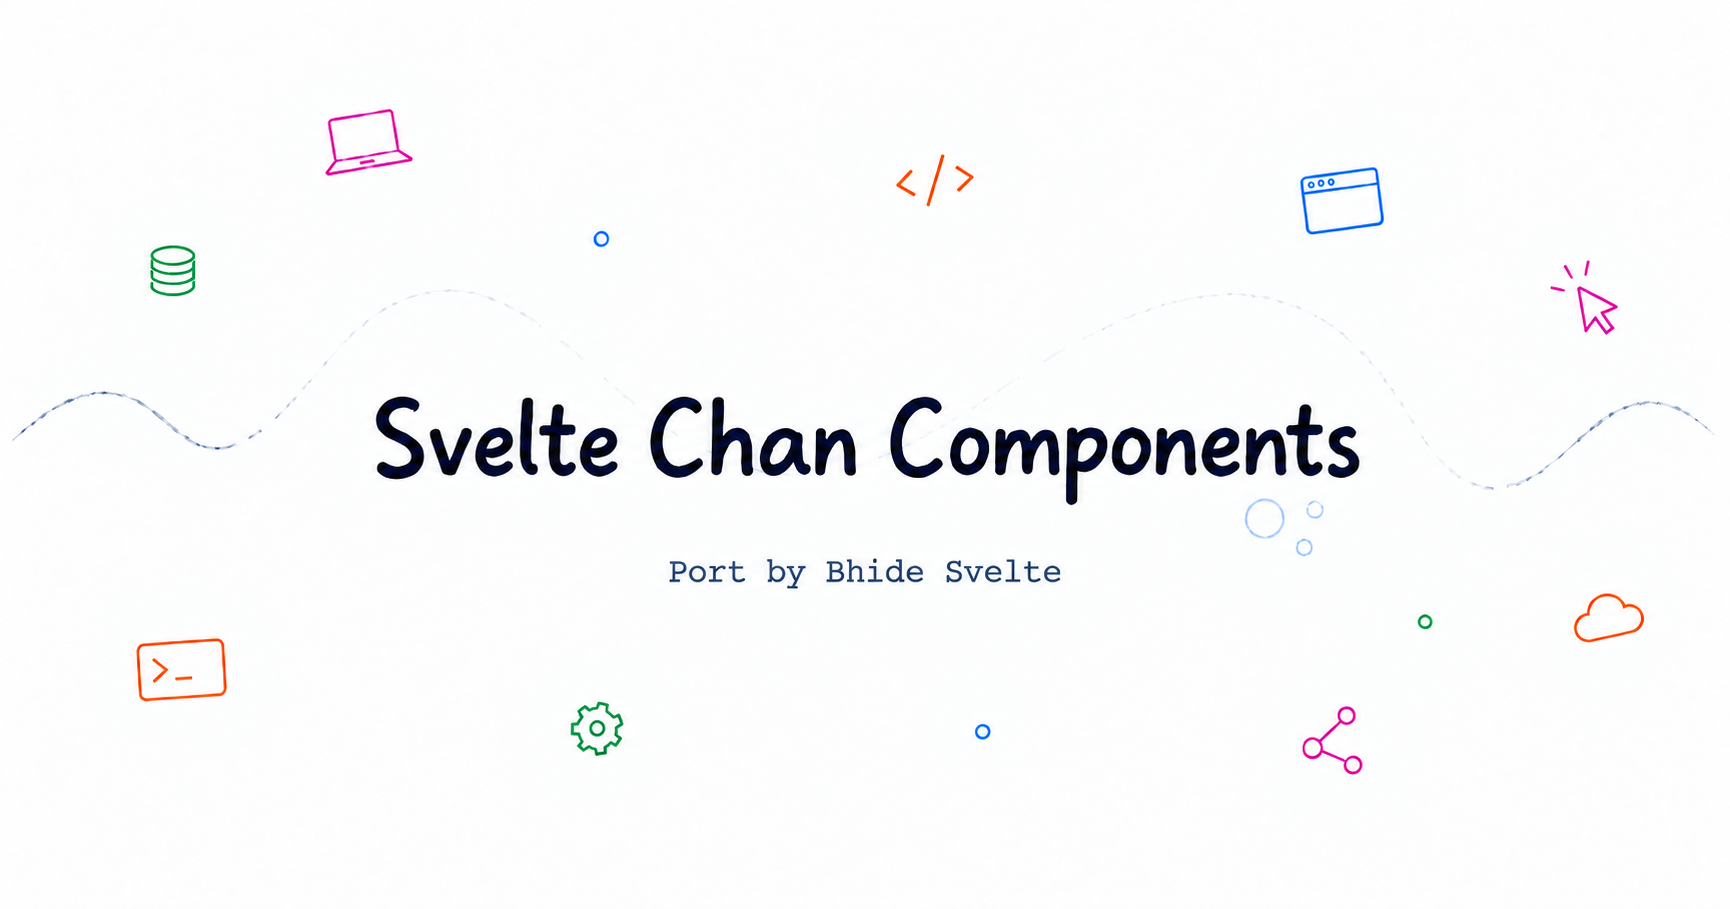
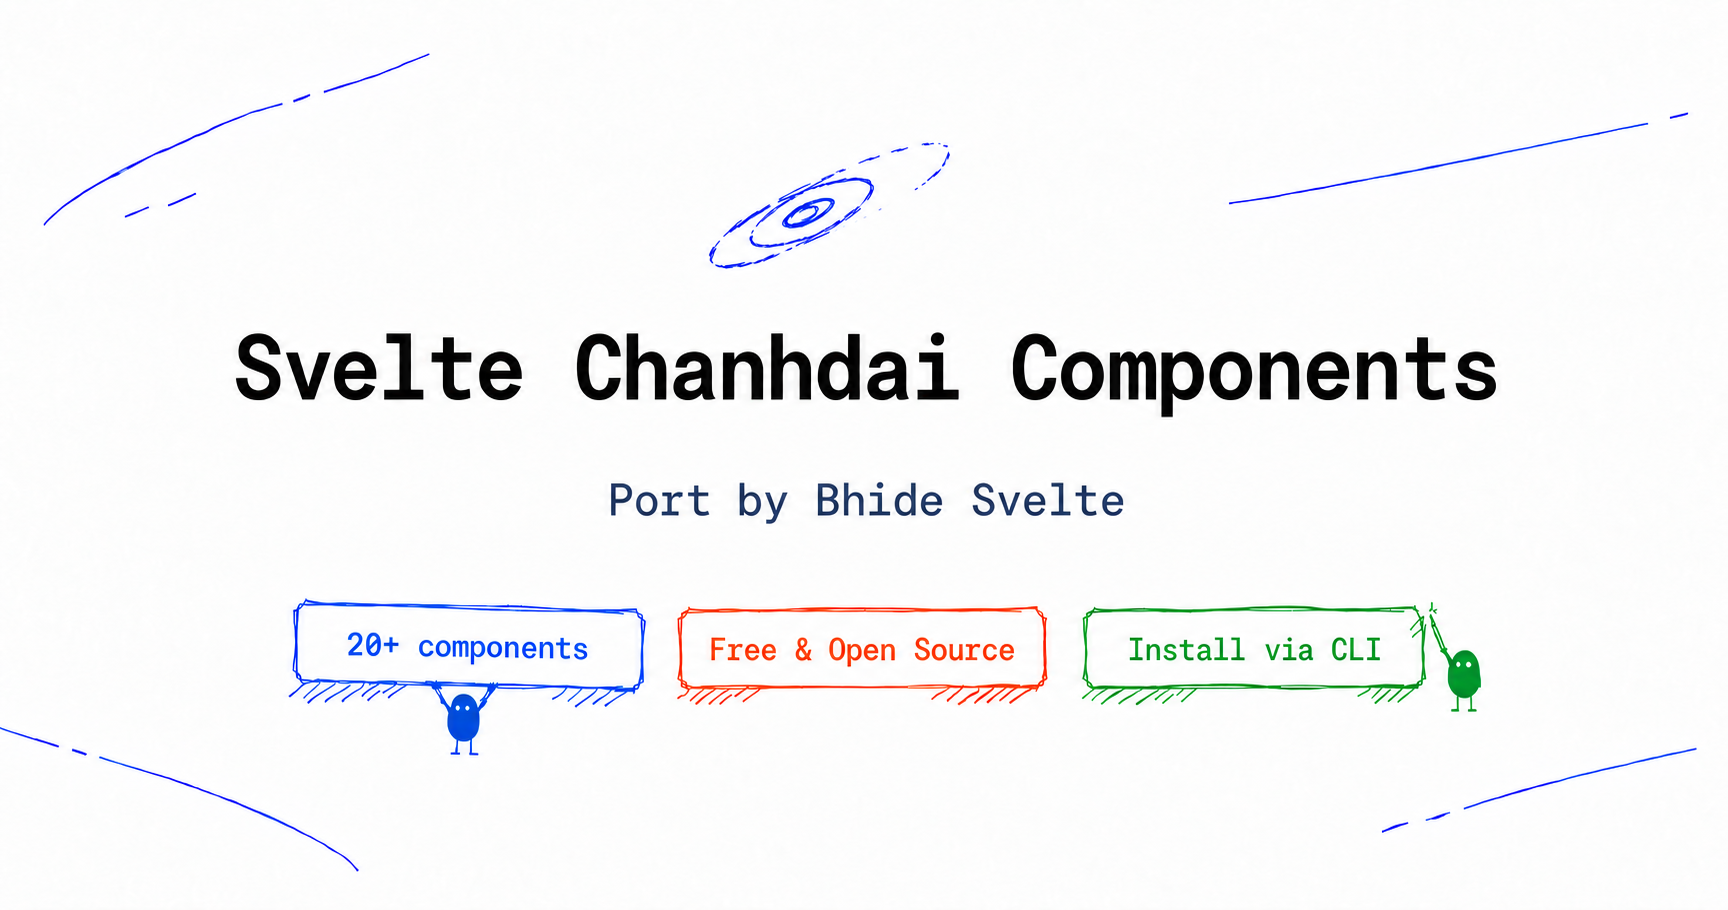
feat: add HeroIllustration component and update hero section layout

diff --git a/src/lib/components/landing/hero.svelte b/src/lib/components/landing/hero.svelte
@@ -1,6 +1,7 @@
 <script lang="ts">
 	import { resolve } from "$app/paths";
 	import FaviconLink from "$lib/components/docs/base/main/favicon-link.svelte";
+	import HeroIllustration from "$lib/components/landing/hero-illustration.svelte";
 	import { Button } from "$lib/components/ui/button";
 	import { components } from "$lib/registry/components";
 	import { Annotation } from "$ui/annotation";
@@ -29,8 +30,11 @@
 		</div>
 	{/if}
 
-	<div class="relative z-10 flex max-w-3xl flex-col px-6 md:px-4">
-		<!-- <a
+	<div
+		class="relative z-10 grid items-center lg:grid-cols-[minmax(0,1fr)_25rem] lg:gap-4"
+	>
+		<div class="flex max-w-3xl flex-col px-6 md:px-4">
+			<!-- <a
 			class="group flex w-fit animate-in items-center gap-3 rounded-full border bg-card p-1 shadow-xs transition-all delay-50 duration-500 ease-out fill-mode-backwards slide-in-from-bottom-10 fade-in"
 			href="/"
 		>
@@ -48,26 +52,37 @@
 			</div>
 		</a> -->
 
-		<h1
-			class="animate-in -ml-1 md:-ml-px font-gp-circle text-4xl leading-tight font-medium text-balance text-foreground delay-100 duration-500 ease-out fill-mode-backwards slide-in-from-bottom-10 fade-in md:text-5xl"
-		>
-			Svelte Chanhdai Components
-		</h1>
+			<h1
+				class="animate-in -ml-1 md:-ml-px font-gp-circle text-4xl leading-tight font-medium text-balance text-foreground delay-100 duration-500 ease-out fill-mode-backwards slide-in-from-bottom-10 fade-in md:text-5xl"
+			>
+				Svelte Chanhdai Components
+			</h1>
 
-		<div
-			class="mt-5 max-w-3xl animate-in text-sm lg:text-base leading-8 font-medium font-mono text-muted-foreground delay-200 duration-500 ease-out fill-mode-backwards slide-in-from-bottom-10 fade-in"
-		>
-			A Svelte port of {components.length} components from
-			{#if large.current}
-				<Annotation
-					note="Original Creator"
-					direction="n"
-					rotate="-2deg"
-					customColor={mode.current === "dark"
-						? "#24DD84"
-						: "lab(36 55.64 -107.68)"}
-					noMark
-				>
+			<div
+				class="mt-5 max-w-3xl animate-in text-sm lg:text-base leading-8 font-medium font-mono text-muted-foreground delay-200 duration-500 ease-out fill-mode-backwards slide-in-from-bottom-10 fade-in"
+			>
+				A Svelte port of {components.length} components from
+				{#if large.current}
+					<Annotation
+						note="Original Creator"
+						direction="n"
+						rotate="-2deg"
+						customColor={mode.current === "dark"
+							? "#24DD84"
+							: "lab(36 55.64 -107.68)"}
+						noMark
+					>
+						<FaviconLink
+							href="https://chanhdai.com"
+							target="_blank"
+							rel="noreferrer"
+							class="mx-0"
+							faviconSrc={faviconUrl}
+						>
+							Chánh Đại
+						</FaviconLink>
+					</Annotation>’s Portfolio
+				{:else}
 					<FaviconLink
 						href="https://chanhdai.com"
 						target="_blank"
@@ -77,78 +92,70 @@
 					>
 						Chánh Đại
 					</FaviconLink>
-				</Annotation>’s Portfolio
-			{:else}
+					’s Portfolio
+				{/if}
+				<br />
+				by
 				<FaviconLink
-					href="https://chanhdai.com"
+					href="https://bhide.dev"
 					target="_blank"
 					rel="noreferrer"
-					class="mx-0"
-					faviconSrc={faviconUrl}
+					class=" text-orange-500 dark:text-orange-500 hover:text-orange-500/80"
+					imageClass="rounded-full size-4.5"
 				>
-					Chánh Đại
+					Bhide Svelte
 				</FaviconLink>
-				’s Portfolio
-			{/if}
-			<br />
-			by
-			<FaviconLink
-				href="https://bhide.dev"
-				target="_blank"
-				rel="noreferrer"
-				class=" text-orange-500 dark:text-orange-500 hover:text-orange-500/80"
-				imageClass="rounded-full size-4.5"
+			</div>
+
+			<div
+				class="mt-10 flex w-fit animate-in items-center justify-center gap-3 delay-300 duration-500 ease-out fill-mode-backwards slide-in-from-bottom-10 fade-in"
 			>
-				Bhide Svelte
-			</FaviconLink>
+				<Button
+					href={resolve("/(main)/components/elastic-slider")}
+					variant="ink"
+				>
+					<svg
+						xmlns="http://www.w3.org/2000/svg"
+						width="20"
+						height="20"
+						viewBox="0 0 20 20"
+						><g fill="currentColor"
+							><circle
+								cx="14.5"
+								cy="8.5"
+								r="2.5"
+								fill="currentColor"
+								stroke="currentColor"
+								stroke-linecap="round"
+								stroke-linejoin="round"
+								stroke-width="2"
+							></circle><rect
+								x="5"
+								y="12"
+								width="5"
+								height="5"
+								rx="1"
+								ry="1"
+								stroke="currentColor"
+								stroke-linecap="round"
+								stroke-linejoin="round"
+								stroke-width="2"
+								fill="currentColor"
+							></rect><path
+								d="m5.1889,3.7146l-2.1169,3.5282c-.2.3333.0401.7572.4287.7572h4.2338c.3886,0,.6287-.424.4287-.7572l-2.1169-3.5282c-.1942-.3237-.6633-.3237-.8575,0Z"
+								stroke="currentColor"
+								stroke-linecap="round"
+								stroke-linejoin="round"
+								stroke-width="2"
+								fill="currentColor"
+							></path></g
+						></svg
+					>
+					View Components</Button
+				>
+			</div>
 		</div>
 
-		<div
-			class="mt-10 flex w-fit animate-in items-center justify-center gap-3 delay-300 duration-500 ease-out fill-mode-backwards slide-in-from-bottom-10 fade-in"
-		>
-			<Button
-				href={resolve("/(main)/components/elastic-slider")}
-				variant="ink"
-			>
-				<svg
-					xmlns="http://www.w3.org/2000/svg"
-					width="20"
-					height="20"
-					viewBox="0 0 20 20"
-					><g fill="currentColor"
-						><circle
-							cx="14.5"
-							cy="8.5"
-							r="2.5"
-							fill="currentColor"
-							stroke="currentColor"
-							stroke-linecap="round"
-							stroke-linejoin="round"
-							stroke-width="2"
-						></circle><rect
-							x="5"
-							y="12"
-							width="5"
-							height="5"
-							rx="1"
-							ry="1"
-							stroke="currentColor"
-							stroke-linecap="round"
-							stroke-linejoin="round"
-							stroke-width="2"
-							fill="currentColor"
-						></rect><path
-							d="m5.1889,3.7146l-2.1169,3.5282c-.2.3333.0401.7572.4287.7572h4.2338c.3886,0,.6287-.424.4287-.7572l-2.1169-3.5282c-.1942-.3237-.6633-.3237-.8575,0Z"
-							stroke="currentColor"
-							stroke-linecap="round"
-							stroke-linejoin="round"
-							stroke-width="2"
-							fill="currentColor"
-						></path></g
-					></svg
-				>
-				View Components</Button
-			>
-		</div>
+		<HeroIllustration />
 	</div>
 </section>

diff --git a/src/lib/components/landing/hero-illustration.svelte b/src/lib/components/landing/hero-illustration.svelte
@@ -1,0 +1,153 @@
+<script lang="ts">
+	import * as Rough from "@sveltecraft/rough";
+</script>
+
+<aside
+	aria-label="Project highlights"
+	class="relative hidden h-80 w-full animate-in delay-400 duration-700 ease-out fill-mode-backwards slide-in-from-bottom-8 fade-in lg:block"
+>
+	<Rough.SVG
+		width={400}
+		height={320}
+		class="pointer-events-none absolute inset-0 size-full overflow-visible"
+		aria-hidden="true"
+		fill="none"
+		stroke="var(--color-muted-foreground)"
+		strokeWidth={1.4}
+		roughness={1.8}
+		bowing={1.4}
+		seed={24}
+	>
+		<Rough.Curve
+			points={[
+				[226, 73],
+				[268, 88],
+				[286, 116]
+			]}
+			strokeLineDash={[7, 7]}
+			disableMultiStroke={true}
+		/>
+
+		<Rough.Curve
+			points={[
+				[169, 174],
+				[128, 188],
+				[113, 210]
+			]}
+			strokeLineDash={[7, 7]}
+			disableMultiStroke={true}
+		/>
+
+		<Rough.Ellipse
+			x={345}
+			y={53}
+			width={32}
+			height={16}
+			stroke="var(--color-ink)"
+			strokeWidth={1.2}
+			strokeLineDash={[5, 5]}
+		/>
+		<Rough.Line
+			x1={45}
+			y1={180}
+			x2={72}
+			y2={180}
+			stroke="var(--color-orange-500)"
+		/>
+		<Rough.Line
+			x1={58}
+			y1={167}
+			x2={58}
+			y2={194}
+			stroke="var(--color-orange-500)"
+		/>
+		<Rough.Circle
+			x={352}
+			y={267}
+			diameter={9}
+			stroke="var(--color-emerald-500)"
+			fill="var(--color-emerald-500)"
+			fillStyle="hachure"
+		/>
+	</Rough.SVG>
+
+	<ul
+		class="contents font-cursive text-[0.925rem] leading-none font-semibold whitespace-nowrap"
+	>
+		<li class="absolute top-8 left-5 h-14 w-[204px] -rotate-3 text-ink">
+			<Rough.SVG
+				width={204}
+				height={56}
+				class="pointer-events-none absolute inset-0 size-full"
+				aria-hidden="true"
+				stroke="var(--color-ink)"
+				strokeWidth={1.8}
+				roughness={1.5}
+				bowing={1.2}
+				seed={7}
+			>
+				<Rough.Path
+					d="M 15 5 H 189 Q 199 5 199 15 V 41 Q 199 51 189 51 H 15 Q 5 51 5 41 V 15 Q 5 5 15 5 Z"
+					fill="color-mix(in oklab, var(--color-ink) 10%, transparent)"
+					fillStyle="hachure"
+					hachureGap={7}
+				/>
+			</Rough.SVG>
+			<span class="absolute inset-0 grid place-items-center"
+				>20+ Components</span
+			>
+		</li>
+
+		<li
+			class="absolute top-30 right-4 h-14 w-[226px] rotate-2 text-orange-500"
+		>
+			<Rough.SVG
+				width={226}
+				height={56}
+				class="pointer-events-none absolute inset-0 size-full"
+				aria-hidden="true"
+				stroke="var(--color-orange-500)"
+				strokeWidth={1.8}
+				roughness={1.55}
+				bowing={1.3}
+				seed={13}
+			>
+				<Rough.Path
+					d="M 15 5 H 211 Q 221 5 221 15 V 41 Q 221 51 211 51 H 15 Q 5 51 5 41 V 15 Q 5 5 15 5 Z"
+					fill="color-mix(in oklab, var(--color-orange-500) 10%, transparent)"
+					fillStyle="hachure"
+					hachureGap={7}
+				/>
+			</Rough.SVG>
+			<span class="absolute inset-0 grid place-items-center"
+				>Free &amp; Open Source</span
+			>
+		</li>
+
+		<li
+			class="absolute top-52 left-7 h-14 w-[254px] -rotate-2 text-emerald-600 dark:text-emerald-400"
+		>
+			<Rough.SVG
+				width={254}
+				height={56}
+				class="pointer-events-none absolute inset-0 size-full"
+				aria-hidden="true"
+				stroke="currentColor"
+				strokeWidth={1.8}
+				roughness={1.6}
+				bowing={1.2}
+				seed={19}
+			>
+				<Rough.Path
+					d="M 15 5 H 239 Q 249 5 249 15 V 41 Q 249 51 239 51 H 15 Q 5 51 5 41 V 15 Q 5 5 15 5 Z"
+					fill="color-mix(in oklab, var(--color-emerald-500) 10%, transparent)"
+					fillStyle="hachure"
+					hachureGap={7}
+				/>
+			</Rough.SVG>
+			<span class="absolute inset-0 grid place-items-center"
+				>Install via Shadcn CLI</span
+			>
+		</li>
+	</ul>
+</aside>
